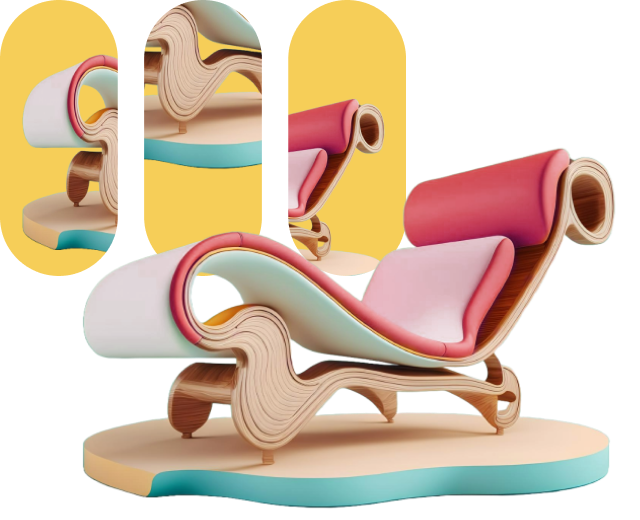
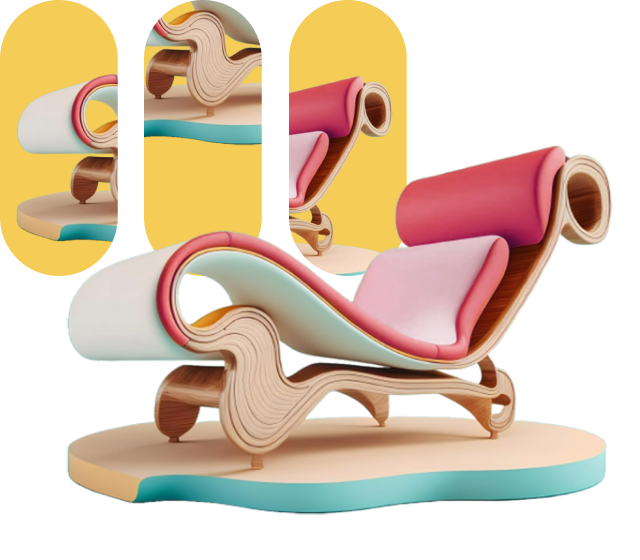
sistemato immagini prodotto e bg prodotti correlati

diff --git a/3_pagina-prodotto-chaise-longue.html b/3_pagina-prodotto-chaise-longue.html
@@ -316,7 +316,7 @@
 <!--inizio sezione showroom-->
 <div class="container-fluid mt-5" id="showroom-container">
     <div class="container">
-        <h4 class="text-light pb-5 text-center">Provala nei nostri showroom</h4>
+        <h3 class="text-light pb-5 text-center">Provala nei nostri showroom</h3>
         <div class="row">
             <div class="col-12 d-flex flex-nowrap overflow-auto gap-5 gap-lg-1 text-light">
                 <div class="col-4 col-md-3 col-lg-2 text-center">

diff --git a/custom.css b/custom.css
@@ -728,7 +728,7 @@ p strong{
 /****PRODOTTI CORRELATI******/
 
 #related-furniture-container {
-	background-image: url('img/related-bg-desktop.svg');
+	background-image: url('img/related-bg-mobile.svg');
 	background-repeat: no-repeat;
 	background-size: cover;
 }
